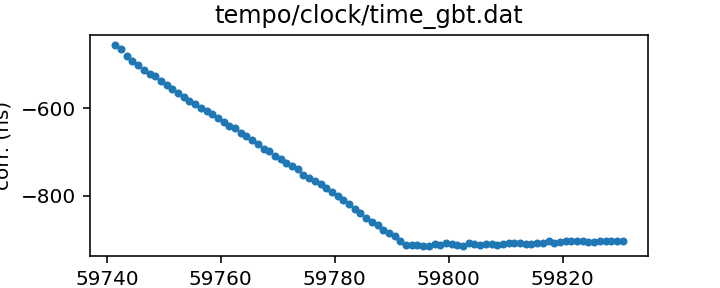
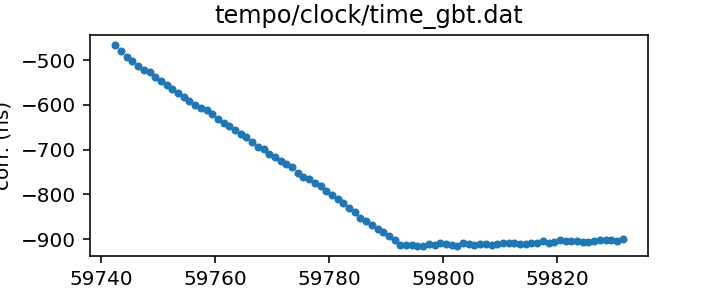
Routine gh-pages update from Github action Sat Sep 10 20:37:15 UTC 2022

diff --git a/status.md b/status.md
@@ -13,17 +13,17 @@ name of each clock file links to a page with more details.
 
 | Name | File | Corrections start | Corrections end | Last check date | Last check result 
 |:--- |:--- | --- | --- | --- |:--- 
-| [GPS to UTC](T2runtime/clock/gps2utc.clk.html) | `T2runtime/clock/gps2utc.clk` | 1993-01-01 MJD 48988.0 | 2022-08-28 MJD 59819.0 | 2022-09-09 | Updated 
-| [GPS to UTC (Combined Clock)](T2runtime/clock/gps2utc_cc.clk.html) | `T2runtime/clock/gps2utc_cc.clk` | 1993-01-01 MJD 48988.0 | 2022-08-28 MJD 59819.0 | 2022-09-09 | Updated 
-| [GPS to UTC (Corrected)](T2runtime/clock/gps2utc_c0p.clk.html) | `T2runtime/clock/gps2utc_c0p.clk` | 2010-12-29 MJD 55559.0 | 2022-08-28 MJD 59819.0 | 2022-09-09 | Updated 
-| [GBT](tempo/clock/time_gbt.dat.html) | `tempo/clock/time_gbt.dat` | 2000-12-31 MJD 51909.5 | 2022-09-08 MJD 59830.5 | 2022-09-09 | Updated 
-| [GBT (TEMPO2 converted from TEMPO)](T2runtime/clock/gbt2gps.clk.html) | `T2runtime/clock/gbt2gps.clk` | 2000-12-31 MJD 51909.5 | 2022-09-08 MJD 59830.5 | 2022-09-09 | Updated 
+| [GPS to UTC](T2runtime/clock/gps2utc.clk.html) | `T2runtime/clock/gps2utc.clk` | 1993-01-01 MJD 48988.0 | 2022-08-28 MJD 59819.0 | 2022-09-10 | Unchanged 
+| [GPS to UTC (Combined Clock)](T2runtime/clock/gps2utc_cc.clk.html) | `T2runtime/clock/gps2utc_cc.clk` | 1993-01-01 MJD 48988.0 | 2022-08-28 MJD 59819.0 | 2022-09-10 | Unchanged 
+| [GPS to UTC (Corrected)](T2runtime/clock/gps2utc_c0p.clk.html) | `T2runtime/clock/gps2utc_c0p.clk` | 2010-12-29 MJD 55559.0 | 2022-08-28 MJD 59819.0 | 2022-09-10 | Unchanged 
+| [GBT](tempo/clock/time_gbt.dat.html) | `tempo/clock/time_gbt.dat` | 2000-12-31 MJD 51909.5 | 2022-09-09 MJD 59831.5 | 2022-09-10 | Updated 
+| [GBT (TEMPO2 converted from TEMPO)](T2runtime/clock/gbt2gps.clk.html) | `T2runtime/clock/gbt2gps.clk` | 2000-12-31 MJD 51909.5 | 2022-09-09 MJD 59831.5 | 2022-09-10 | Updated 
 | [Jodrell Bank](T2runtime/clock/jb2gps.clk.html) | `T2runtime/clock/jb2gps.clk` | 2006-10-13 MJD 54021.4 | 2021-11-03 MJD 59521.0 | 2022-09-07 | Unchanged 
 | [Jodrell Bank Roach](T2runtime/clock/jbroach2jb.clk.html) | `T2runtime/clock/jbroach2jb.clk` | 2006-10-13 MJD 54021.4 | 2018-03-20 MJD 58197.6 | 2022-09-07 | Unchanged 
 | [Jodrell Bank DFB](T2runtime/clock/jbdfb2jb.clk.html) | `T2runtime/clock/jbdfb2jb.clk` | 2006-10-13 MJD 54021.4 | 2017-05-11 MJD 57884.0 | 2022-09-07 | Unchanged 
 | [Meerkat (observatory)](T2runtime/clock/mk2utc_observatory.clk.html) | `T2runtime/clock/mk2utc_observatory.clk` | 2019-01-01 MJD 58484.0 | 2022-08-17 MJD 59809.0 | 2022-09-05 | **Failed to download** 
-| [Leap seconds](tempo/clock/leap.sec.html) | `tempo/clock/leap.sec` | 1972-07-01 MJD 41499.0 | 2017-01-01 MJD 57754.0 | 2022-09-09 | Unchanged 
-| [UT1 table](tempo/clock/ut1.dat.html) | `tempo/clock/ut1.dat` | 1973-01-02 MJD 41684.0 | 2023-09-16 MJD 60203.0 | 2022-09-09 | Unchanged 
+| [Leap seconds](tempo/clock/leap.sec.html) | `tempo/clock/leap.sec` | 1972-07-01 MJD 41499.0 | 2017-01-01 MJD 57754.0 | 2022-09-10 | Unchanged 
+| [UT1 table](tempo/clock/ut1.dat.html) | `tempo/clock/ut1.dat` | 1973-01-02 MJD 41684.0 | 2023-09-16 MJD 60203.0 | 2022-09-10 | Unchanged 
 
 
 

diff --git a/T2runtime/clock/gbt2gps.clk.md b/T2runtime/clock/gbt2gps.clk.md
@@ -23,14 +23,13 @@ If questions arise about the conversion, contact Anne Archibald
 | Format | tempo2 |
 | Bogus last correction | False |
 | Clock file start | 2000-12-31 MJD 51909.5 |
-| Clock file end | 2022-09-08 MJD 59830.5 |
+| Clock file end | 2022-09-09 MJD 59831.5 |
 | Update interval (days) | 1 |
-| Last update attempt | 2022-09-09 |
+| Last update attempt | 2022-09-10 |
 | Last update result | Updated |
 
 Log entries from the last few update attempts:
 ```
-2022-08-31 16:39:03.349 - Updated
 2022-09-01 20:35:41.180 - Updated
 2022-09-02 20:34:53.274 - Updated
 2022-09-03 20:34:23.365 - Updated
@@ -40,12 +39,13 @@ Log entries from the last few update attempts:
 2022-09-07 20:40:06.548 - Updated
 2022-09-08 20:39:22.661 - Updated
 2022-09-09 20:38:13.407 - Updated
+2022-09-10 20:36:43.474 - Updated
 ```
 [Full log](https://raw.githubusercontent.com/ipta/pulsar-clock-corrections/main/log/T2runtime/clock/gbt2gps.clk.log)
 
 Leading comments from clock file:
 
-    # This file was automatically converted from tempo/clock/time_gbt.dat on 2022-09-09 20:38:13.340
+    # This file was automatically converted from tempo/clock/time_gbt.dat on 2022-09-10 20:36:43.386
 
 
 

diff --git a/T2runtime/clock/gps2utc_c0p.clk.md b/T2runtime/clock/gps2utc_c0p.clk.md
@@ -30,12 +30,11 @@ about the BIPM's published corrections, contact <tai@bipm.org>.
 | Clock file start | 2010-12-29 MJD 55559.0 |
 | Clock file end | 2022-08-28 MJD 59819.0 |
 | Update interval (days) | 1 |
-| Last update attempt | 2022-09-09 |
-| Last update result | Updated |
+| Last update attempt | 2022-09-10 |
+| Last update result | Unchanged |
 
 Log entries from the last few update attempts:
 ```
-2022-08-31 16:37:46.540 - Validation failed: New version of T2runtime/clock/gps2utc_c0p.clk has decreased from 4201 to 4171 measurements.
 2022-09-01 20:35:40.768 - Updated
 2022-09-02 20:34:52.716 - Unchanged
 2022-09-03 20:34:22.345 - Unchanged
@@ -45,6 +44,7 @@ Log entries from the last few update attempts:
 2022-09-07 20:40:06.098 - Unchanged
 2022-09-08 20:39:22.276 - Unchanged
 2022-09-09 20:38:12.889 - Updated
+2022-09-10 20:36:42.421 - Unchanged
 ```
 [Full log](https://raw.githubusercontent.com/ipta/pulsar-clock-corrections/main/log/T2runtime/clock/gps2utc_c0p.clk.log)
 

diff --git a/T2runtime/clock/gps2utc.clk.md b/T2runtime/clock/gps2utc.clk.md
@@ -32,12 +32,11 @@ about the BIPM's published corrections, contact <tai@bipm.org>.
 | Clock file start | 1993-01-01 MJD 48988.0 |
 | Clock file end | 2022-08-28 MJD 59819.0 |
 | Update interval (days) | 1 |
-| Last update attempt | 2022-09-09 |
-| Last update result | Updated |
+| Last update attempt | 2022-09-10 |
+| Last update result | Unchanged |
 
 Log entries from the last few update attempts:
 ```
-2022-08-31 16:37:46.504 - Validation failed: New version of T2runtime/clock/gps2utc.clk has decreased from 10828 to 10798 measurements.
 2022-09-01 20:35:40.693 - Updated
 2022-09-02 20:34:52.673 - Unchanged
 2022-09-03 20:34:22.297 - Unchanged
@@ -47,6 +46,7 @@ Log entries from the last few update attempts:
 2022-09-07 20:40:06.054 - Unchanged
 2022-09-08 20:39:22.234 - Unchanged
 2022-09-09 20:38:12.778 - Updated
+2022-09-10 20:36:42.366 - Unchanged
 ```
 [Full log](https://raw.githubusercontent.com/ipta/pulsar-clock-corrections/main/log/T2runtime/clock/gps2utc.clk.log)
 

diff --git a/tempo/clock/time_gbt.dat.md b/tempo/clock/time_gbt.dat.md
@@ -18,14 +18,13 @@ If questions arise, contact Ryan S. Lynch <rlynch@nrao.edu>.
 | Format | tempo |
 | Bogus last correction | False |
 | Clock file start | 2000-12-31 MJD 51909.5 |
-| Clock file end | 2022-09-08 MJD 59830.5 |
+| Clock file end | 2022-09-09 MJD 59831.5 |
 | Update interval (days) | 1 |
-| Last update attempt | 2022-09-09 |
+| Last update attempt | 2022-09-10 |
 | Last update result | Updated |
 
 Log entries from the last few update attempts:
 ```
-2022-08-31 16:37:46.402 - Updated
 2022-09-01 20:35:41.095 - Updated
 2022-09-02 20:34:53.206 - Updated
 2022-09-03 20:34:23.288 - Updated
@@ -35,6 +34,7 @@ Log entries from the last few update attempts:
 2022-09-07 20:40:06.476 - Updated
 2022-09-08 20:39:22.591 - Updated
 2022-09-09 20:38:13.338 - Updated
+2022-09-10 20:36:43.384 - Updated
 ```
 [Full log](https://raw.githubusercontent.com/ipta/pulsar-clock-corrections/main/log/tempo/clock/time_gbt.dat.log)
 

diff --git a/T2runtime/clock/gps2utc_cc.clk.md b/T2runtime/clock/gps2utc_cc.clk.md
@@ -29,12 +29,11 @@ about the BIPM's published corrections, contact <tai@bipm.org>.
 | Clock file start | 1993-01-01 MJD 48988.0 |
 | Clock file end | 2022-08-28 MJD 59819.0 |
 | Update interval (days) | 1 |
-| Last update attempt | 2022-09-09 |
-| Last update result | Updated |
+| Last update attempt | 2022-09-10 |
+| Last update result | Unchanged |
 
 Log entries from the last few update attempts:
 ```
-2022-08-31 20:34:56.230 - Unchanged
 2022-09-01 20:35:40.731 - Unchanged
 2022-09-02 20:34:52.705 - Unchanged
 2022-09-03 20:34:22.332 - Unchanged
@@ -44,6 +43,7 @@ Log entries from the last few update attempts:
 2022-09-07 20:40:06.087 - Unchanged
 2022-09-08 20:39:22.266 - Unchanged
 2022-09-09 20:38:12.859 - Updated
+2022-09-10 20:36:42.407 - Unchanged
 ```
 [Full log](https://raw.githubusercontent.com/ipta/pulsar-clock-corrections/main/log/T2runtime/clock/gps2utc_cc.clk.log)
 

diff --git a/tempo/clock/leap.sec.md b/tempo/clock/leap.sec.md
@@ -21,12 +21,11 @@ If there are any questions, contact Anne Archibald
 | File start | 1972-07-01 MJD 41499.0 |
 | File end | 2017-01-01 MJD 57754.0 |
 | Update interval (days) | 0 |
-| Last update attempt | 2022-09-09 |
+| Last update attempt | 2022-09-10 |
 | Last update result | Unchanged |
 
 Log entries from the last few update attempts:
 ```
-2022-08-31 20:34:59.383 - Unchanged
 2022-09-01 20:35:43.986 - Unchanged
 2022-09-02 20:34:53.307 - Unchanged
 2022-09-03 20:34:23.411 - Unchanged
@@ -36,5 +35,6 @@ Log entries from the last few update attempts:
 2022-09-07 20:40:08.958 - Unchanged
 2022-09-08 20:39:26.311 - Unchanged
 2022-09-09 20:38:13.440 - Unchanged
+2022-09-10 20:36:43.525 - Unchanged
 ```
 [Full log](https://raw.githubusercontent.com/ipta/pulsar-clock-corrections/main/log/tempo/clock/leap.sec.log)

diff --git a/tempo/clock/ut1.dat.md b/tempo/clock/ut1.dat.md
@@ -30,12 +30,11 @@ If there are any questions, contact Anne Archibald
 | File start | 1973-01-02 MJD 41684.0 |
 | File end | 2023-09-16 MJD 60203.0 |
 | Update interval (days) | 0 |
-| Last update attempt | 2022-09-09 |
+| Last update attempt | 2022-09-10 |
 | Last update result | Unchanged |
 
 Log entries from the last few update attempts:
 ```
-2022-08-31 20:35:07.131 - Updated
 2022-09-01 20:35:51.486 - Updated
 2022-09-02 20:35:01.591 - Unchanged
 2022-09-03 20:34:37.201 - Unchanged
@@ -45,5 +44,6 @@ Log entries from the last few update attempts:
 2022-09-07 20:40:16.634 - Unchanged
 2022-09-08 20:39:34.100 - Updated
 2022-09-09 20:38:23.093 - Unchanged
+2022-09-10 20:36:56.168 - Unchanged
 ```
 [Full log](https://raw.githubusercontent.com/ipta/pulsar-clock-corrections/main/log/tempo/clock/ut1.dat.log)
